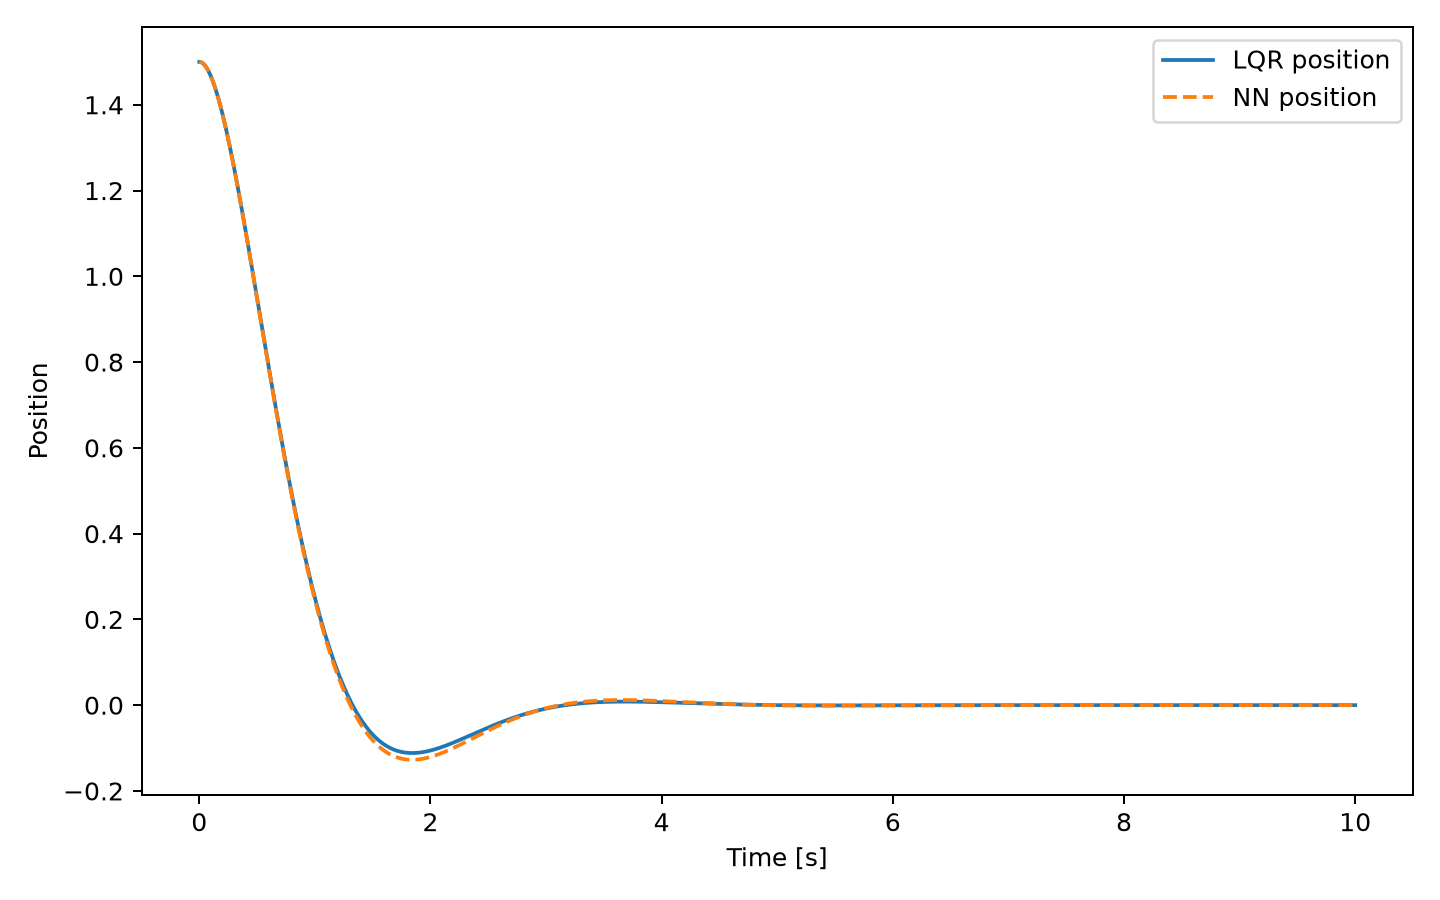
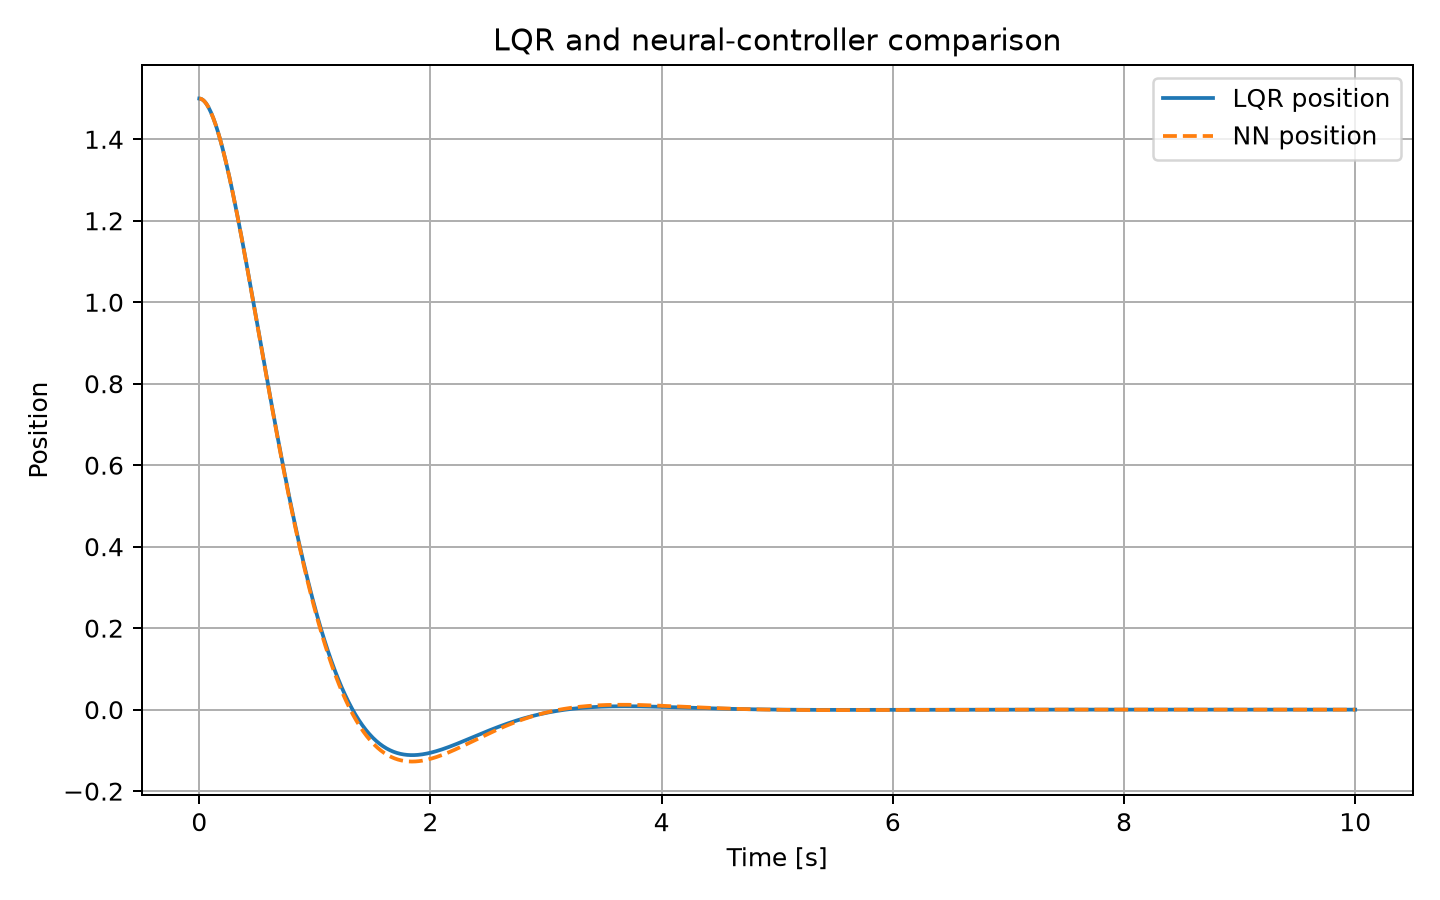
Evaluate multiple initial conditions

diff --git a/main.py b/main.py
@@ -10,7 +10,10 @@ from src.controllers import (
     train_controller,
 )
 from src.lyapunov import grid_check
-from src.plotting import save_plots
+from src.plotting import (
+    save_multiple_initial_conditions_plot,
+    save_plots,
+)
 from src.simulation import simulate
 from src.system import CLOSED_LOOP_EIGENVALUES, K, lqr_controller
 
@@ -18,6 +21,8 @@ SEED = 7
 
 
 def set_seed() -> None:
+    """Set deterministic random seeds."""
+
     random.seed(SEED)
     np.random.seed(SEED)
     torch.manual_seed(SEED)
@@ -38,17 +43,71 @@ def main() -> None:
     losses = train_controller(model)
     nn_controller = make_nn_controller(model)
 
-    initial_state = np.array([1.5, 0.0])
+    initial_states = [
+        np.array([1.5, 0.0]),
+        np.array([-1.5, 0.0]),
+        np.array([1.0, 1.5]),
+        np.array([-1.0, -1.5]),
+        np.array([0.5, -2.0]),
+    ]
 
-    lqr_solution = simulate(lqr_controller, initial_state)
-    nn_solution = simulate(nn_controller, initial_state)
+    lqr_solutions = [
+        simulate(lqr_controller, initial_state)
+        for initial_state in initial_states
+    ]
 
+    nn_solutions = [
+        simulate(nn_controller, initial_state)
+        for initial_state in initial_states
+    ]
+
+    all_solutions = lqr_solutions + nn_solutions
+
+    if not all(solution.success for solution in all_solutions):
+        raise RuntimeError("At least one simulation failed.")
+
+    print()
+    print("Multiple initial-condition results:")
+
+    for initial_state, lqr_solution, nn_solution in zip(
+        initial_states,
+        lqr_solutions,
+        nn_solutions,
+    ):
+        lqr_final_norm = np.linalg.norm(lqr_solution.y[:, -1])
+        nn_final_norm = np.linalg.norm(nn_solution.y[:, -1])
+
+        print(
+            f"x0={initial_state}: "
+            f"LQR final norm={lqr_final_norm:.6e}, "
+            f"NN final norm={nn_final_norm:.6e}"
+        )
+
+    print()
     print("LQR grid check:", grid_check(lqr_controller))
     print("NN grid check:", grid_check(nn_controller))
 
-    torch.save(model.state_dict(), output_dir / "nn_controller.pt")
-    save_plots(losses, lqr_solution, nn_solution, output_dir)
+    torch.save(
+        model.state_dict(),
+        output_dir / "nn_controller.pt",
+    )
 
+    # Keep the original one-condition comparison.
+    save_plots(
+        losses,
+        lqr_solutions[0],
+        nn_solutions[0],
+        output_dir,
+    )
+
+    # Add the new multiple-condition experiment.
+    save_multiple_initial_conditions_plot(
+        nn_solutions,
+        initial_states,
+        output_dir,
+    )
+
+    print()
     print(f"Saved model and figures in: {output_dir.resolve()}")
 
 

diff --git a/src/plotting.py b/src/plotting.py
@@ -1,6 +1,7 @@
 from pathlib import Path
 
 import matplotlib.pyplot as plt
+import numpy as np
 
 
 def save_plots(
@@ -9,13 +10,16 @@ def save_plots(
     nn_solution,
     output_dir: Path,
 ) -> None:
-    """Save trajectory and training-loss figures."""
+    """Save the baseline trajectory and training-loss figures."""
+
     plt.figure(figsize=(8, 5))
     plt.plot(lqr_solution.t, lqr_solution.y[0], label="LQR position")
     plt.plot(nn_solution.t, nn_solution.y[0], "--", label="NN position")
     plt.xlabel("Time [s]")
     plt.ylabel("Position")
+    plt.title("LQR and neural-controller comparison")
     plt.legend()
+    plt.grid(True)
     plt.tight_layout()
     plt.savefig(output_dir / "position_comparison.png", dpi=180)
     plt.close()
@@ -24,6 +28,43 @@ def save_plots(
     plt.semilogy(losses)
     plt.xlabel("Epoch")
     plt.ylabel("Training MSE")
+    plt.title("Neural-controller training loss")
+    plt.grid(True)
     plt.tight_layout()
     plt.savefig(output_dir / "training_loss.png", dpi=180)
+    plt.close()
+
+
+def save_multiple_initial_conditions_plot(
+    nn_solutions: list,
+    initial_states: list[np.ndarray],
+    output_dir: Path,
+) -> None:
+    """Plot the NN-controlled state norm for several initial conditions."""
+
+    plt.figure(figsize=(9, 6))
+
+    for initial_state, solution in zip(initial_states, nn_solutions):
+        state_norm = np.linalg.norm(solution.y, axis=0)
+
+        # Avoid log(0) when the trajectory becomes extremely small.
+        state_norm = np.maximum(state_norm, 1e-12)
+
+        label = (
+            f"x0 = [{initial_state[0]:.1f}, "
+            f"{initial_state[1]:.1f}]"
+        )
+
+        plt.semilogy(solution.t, state_norm, label=label)
+
+    plt.xlabel("Time [s]")
+    plt.ylabel("State norm ||x||")
+    plt.title("NN controller from multiple initial conditions")
+    plt.grid(True)
+    plt.legend()
+    plt.tight_layout()
+    plt.savefig(
+        output_dir / "multiple_initial_conditions.png",
+        dpi=180,
+    )
     plt.close()

diff --git a/tests/test_basic.py b/tests/test_basic.py
@@ -1,8 +1,10 @@
 import numpy as np
+import pytest
 import torch
 
 from src.controllers import ZeroAtOriginController
 from src.lyapunov import grid_check
+from src.simulation import simulate
 from src.system import A, B, K, lqr_controller
 
 
@@ -15,6 +17,7 @@ def test_system_matrix_shapes():
 def test_lqr_controller_returns_float():
     x = np.array([1.0, 0.0])
     u = lqr_controller(x)
+
     assert isinstance(u, float)
 
 
@@ -22,10 +25,40 @@ def test_neural_controller_is_zero_at_origin():
     model = ZeroAtOriginController()
     x = torch.zeros((1, 2))
     u = model(x)
-    assert torch.allclose(u, torch.zeros_like(u), atol=1e-6)
+
+    assert torch.allclose(
+        u,
+        torch.zeros_like(u),
+        atol=1e-6,
+    )
 
 
 def test_lqr_grid_check_has_no_violations():
     result = grid_check(lqr_controller)
+
     assert result["violation_fraction"] == 0.0
     assert result["maximum_vdot"] < 0.0
+
+
[email redacted](
+    "initial_state",
+    [
+        [1.5, 0.0],
+        [-1.5, 0.0],
+        [1.0, 1.5],
+        [-1.0, -1.5],
+        [0.5, -2.0],
+    ],
+)
+def test_lqr_converges_from_multiple_initial_conditions(
+    initial_state,
+):
+    solution = simulate(
+        lqr_controller,
+        np.array(initial_state, dtype=float),
+    )
+
+    final_state_norm = np.linalg.norm(solution.y[:, -1])
+
+    assert solution.success
+    assert final_state_norm < 1e-3